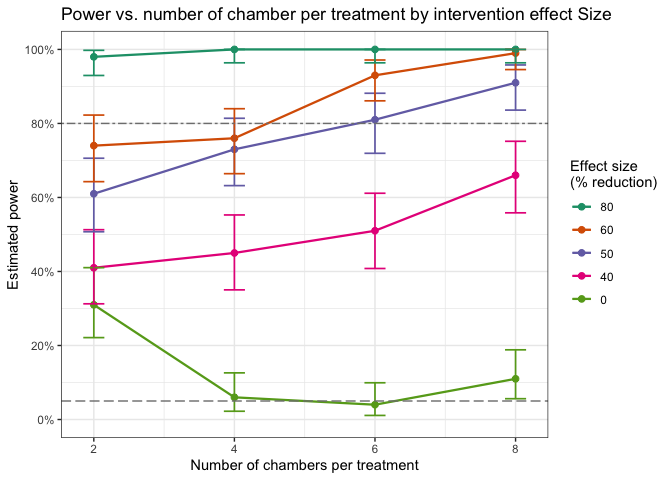
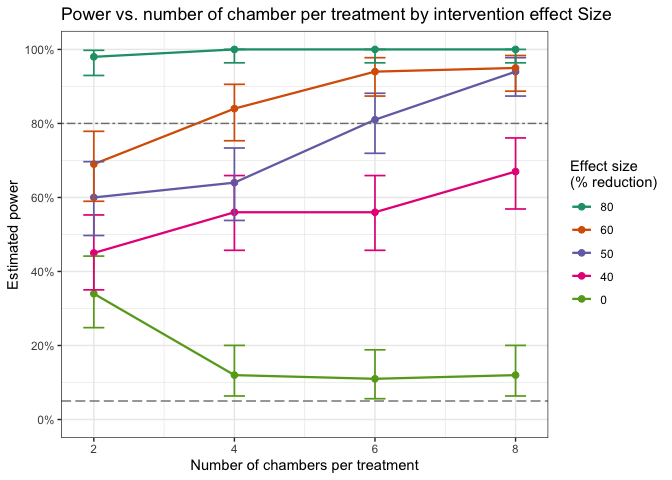
Tyring to resolve commit failures

diff --git a/README.md b/README.md
@@ -35,7 +35,7 @@ library("devtools")
 # Then, install the "powergene" package from github
 devtools::install_github("akipingu/powergene")
 
-#Finally, load the powergene package library
+#Finally, load the "powergene" package library
 library("powergene")
 ```
 
@@ -47,15 +47,15 @@ it appropriately
 citation("powergene")
 #> To cite powergene in publications use:
 #> 
-#>   Kipingu, A.M., Kiware, S.S. (2025). "powergene: A generalizable
-#>   simulation-based power analysis R package for semi-field vector
-#>   control trials ." R package available at GitHub.
-#>   <https://github.com/akipingu/powergene>.
+#>   Kipingu, A.M., Viana, M., Johnson, P.C.D., Kiware, S.S. (2025).
+#>   "powergene: A generalizable simulation-based power analysis R package
+#>   for semi-field vector control trials ." R package available at
+#>   GitHub. <https://github.com/akipingu/powergene>.
 #> 
 #> A BibTeX entry for LaTeX users is
 #> 
 #>   @Misc{,
-#>     author = {{Kipingu, A.M.} and {Kiware, S.S.}},
+#>     author = {{Kipingu, A.M.} and {Viana, M.} and {Johnson, P.C.D.} and {Kiware, S.S.}},
 #>     title = {powergene: A generalizable simulation-based power analysis R package for semi-field vector control trials
 #> },
 #>     year = {2025},
@@ -122,14 +122,14 @@ sim.mosquitoes <- sim.mosq.shortsfe.sinint(
 sim.mosquitoes <- sim.mosquitoes[, c(-4,-5,-6)]
 sim.mosquitoes
 #>   replicates intvn chamber mosquito.count.fixed mosquito.count.random
-#> 1          1     0     0-1                   36                    73
-#> 2          2     0     0-2                   47                    35
-#> 3          3     0     0-3                   52                    38
-#> 4          4     0     0-4                   48                    65
-#> 5          1     1     1-1                    9                    10
-#> 6          2     1     1-2                    6                    13
-#> 7          3     1     1-3                   16                     6
-#> 8          4     1     1-4                    8                    20
+#> 1          1     0     0-1                   51                    23
+#> 2          2     0     0-2                   44                    66
+#> 3          3     0     0-3                   53                    40
+#> 4          4     0     0-4                   54                    67
+#> 5          1     1     1-1                   13                    19
+#> 6          2     1     1-2                   11                     9
+#> 7          3     1     1-3                    9                     2
+#> 8          4     1     1-4                   13                    16
 ```
 
 3.  Plot the simulated mosquitoes. This function plots a box plot with
@@ -170,8 +170,8 @@ pvalue <- sim.pval.shortsfe.sinint(
 
 #output the p-values
 pvalue
-#>       pvalue 
-#> 5.849661e-14
+#>      pvalue 
+#> 6.00237e-07
 ```
 
 V. Since power cannot be estimated from a single simulation, there is a
@@ -245,7 +245,7 @@ for (i in seq_along(n.ch.values)) {
 round(power.df,2)
 #>   n.ch.per.trt power ci.lower ci.upper
 #> 1            2  0.96     0.90     0.99
-#> 2            4  0.99     0.95     1.00
+#> 2            4  1.00     0.96     1.00
 #> 3            6  1.00     0.96     1.00
 #> 4            8  1.00     0.96     1.00
 ```
@@ -331,27 +331,27 @@ for (i in seq_len(nrow(results))) {
 #>   |                                                                              |                                                                      |   0%  |                                                                              |=                                                                     |   1%  |                                                                              |=                                                                     |   2%  |                                                                              |==                                                                    |   3%  |                                                                              |===                                                                   |   4%  |                                                                              |====                                                                  |   5%  |                                                                              |====                                                                  |   6%  |                                                                              |=====                                                                 |   7%  |                                                                              |======                                                                |   8%  |                                                                              |======                                                                |   9%  |                                                                              |=======                                                               |  10%  |                                                                              |========                                                              |  11%  |                                                                              |========                                                              |  12%  |                                                                              |=========                                                             |  13%  |                                                                              |==========                                                            |  14%  |                                                                              |==========                                                            |  15%  |                                                                              |===========                                                           |  16%  |                                                                              |============                                                          |  17%  |                                                                              |=============                                                         |  18%  |                                                                              |=============                                                         |  19%  |                                                                              |==============                                                        |  20%  |                                                                              |===============                                                       |  21%  |                                                                              |===============                                                       |  22%  |                                                                              |================                                                      |  23%  |                                                                              |=================                                                     |  24%  |                                                                              |==================                                                    |  25%  |                                                                              |==================                                                    |  26%  |                                                                              |===================                                                   |  27%  |                                                                              |====================                                                  |  28%  |                                                                              |====================                                                  |  29%  |                                                                              |=====================                                                 |  30%  |                                                                              |======================                                                |  31%  |                                                                              |======================                                                |  32%  |                                                                              |=======================                                               |  33%  |                                                                              |========================                                              |  34%  |                                                                              |========================                                              |  35%  |                                                                              |=========================                                             |  36%  |                                                                              |==========================                                            |  37%  |                                                                              |===========================                                           |  38%  |                                                                              |===========================                                           |  39%  |                                                                              |============================                                          |  40%  |                                                                              |=============================                                         |  41%  |                                                                              |=============================                                         |  42%  |                                                                              |==============================                                        |  43%  |                                                                              |===============================                                       |  44%  |                                                                              |================================                                      |  45%  |                                                                              |================================                                      |  46%  |                                                                              |=================================                                     |  47%  |                                                                              |==================================                                    |  48%  |                                                                              |==================================                                    |  49%  |                                                                              |===================================                                   |  50%  |                                                                              |====================================                                  |  51%  |                                                                              |====================================                                  |  52%  |                                                                              |=====================================                                 |  53%  |                                                                              |======================================                                |  54%  |                                                                              |======================================                                |  55%  |                                                                              |=======================================                               |  56%  |                                                                              |========================================                              |  57%  |                                                                              |=========================================                             |  58%  |                                                                              |=========================================                             |  59%  |                                                                              |==========================================                            |  60%  |                                                                              |===========================================                           |  61%  |                                                                              |===========================================                           |  62%  |                                                                              |============================================                          |  63%  |                                                                              |=============================================                         |  64%  |                                                                              |==============================================                        |  65%  |                                                                              |==============================================                        |  66%  |                                                                              |===============================================                       |  67%  |                                                                              |================================================                      |  68%  |                                                                              |================================================                      |  69%  |                                                                              |=================================================                     |  70%  |                                                                              |==================================================                    |  71%  |                                                                              |==================================================                    |  72%  |                                                                              |===================================================                   |  73%  |                                                                              |====================================================                  |  74%  |                                                                              |====================================================                  |  75%  |                                                                              |=====================================================                 |  76%  |                                                                              |======================================================                |  77%  |                                                                              |=======================================================               |  78%  |                                                                              |=======================================================               |  79%  |                                                                              |========================================================              |  80%  |                                                                              |=========================================================             |  81%  |                                                                              |=========================================================             |  82%  |                                                                              |==========================================================            |  83%  |                                                                              |===========================================================           |  84%  |                                                                              |============================================================          |  85%  |                                                                              |============================================================          |  86%  |                                                                              |=============================================================         |  87%  |                                                                              |==============================================================        |  88%  |                                                                              |==============================================================        |  89%  |                                                                              |===============================================================       |  90%  |                                                                              |================================================================      |  91%  |                                                                              |================================================================      |  92%  |                                                                              |=================================================================     |  93%  |                                                                              |==================================================================    |  94%  |                                                                              |==================================================================    |  95%  |                                                                              |===================================================================   |  96%  |                                                                              |====================================================================  |  97%  |                                                                              |===================================================================== |  98%  |                                                                              |===================================================================== |  99%  |                                                                              |======================================================================| 100%
 # print power estimates
 results
-#>    n.ch.per.trt intvn.effect power   ci.lower   ci.upper
-#> 1             2          0.0  0.31 0.22128879 0.41031455
-#> 2             4          0.0  0.06 0.02233489 0.12602993
-#> 3             6          0.0  0.04 0.01100449 0.09925716
-#> 4             8          0.0  0.11 0.05620702 0.18830113
-#> 5             2          0.4  0.41 0.31261998 0.51285580
-#> 6             4          0.4  0.45 0.35032023 0.55271981
-#> 7             6          0.4  0.51 0.40803633 0.61135583
-#> 8             8          0.4  0.66 0.55846673 0.75177650
-#> 9             2          0.5  0.61 0.50731448 0.70598959
-#> 10            4          0.5  0.73 0.63198373 0.81393358
-#> 11            6          0.5  0.81 0.71930204 0.88155680
-#> 12            8          0.5  0.91 0.83601774 0.95801640
-#> 13            2          0.6  0.74 0.64268794 0.82260556
-#> 14            4          0.6  0.76 0.66426451 0.83977539
-#> 15            6          0.6  0.93 0.86108027 0.97139471
-#> 16            8          0.6  0.99 0.94554061 0.99974685
-#> 17            2          0.8  0.98 0.92961607 0.99756866
-#> 18            4          0.8  1.00 0.96378331 1.00000000
-#> 19            6          0.8  1.00 0.96378331 1.00000000
-#> 20            8          0.8  1.00 0.96378331 1.00000000
+#>    n.ch.per.trt intvn.effect power   ci.lower  ci.upper
+#> 1             2          0.0  0.34 0.24822350 0.4415333
+#> 2             4          0.0  0.12 0.06356890 0.2002357
+#> 3             6          0.0  0.11 0.05620702 0.1883011
+#> 4             8          0.0  0.12 0.06356890 0.2002357
+#> 5             2          0.4  0.45 0.35032023 0.5527198
+#> 6             4          0.4  0.56 0.45718750 0.6591640
+#> 7             6          0.4  0.56 0.45718750 0.6591640
+#> 8             8          0.4  0.67 0.56882725 0.7608015
+#> 9             2          0.5  0.60 0.49720915 0.6967052
+#> 10            4          0.5  0.64 0.53787811 0.7335916
+#> 11            6          0.5  0.81 0.71930204 0.8815568
+#> 12            8          0.5  0.94 0.87397007 0.9776651
+#> 13            2          0.6  0.69 0.58968545 0.7787112
+#> 14            4          0.6  0.84 0.75321240 0.9056897
+#> 15            6          0.6  0.94 0.87397007 0.9776651
+#> 16            8          0.6  0.95 0.88716509 0.9835681
+#> 17            2          0.8  0.98 0.92961607 0.9975687
+#> 18            4          0.8  1.00 0.96378331 1.0000000
+#> 19            6          0.8  1.00 0.96378331 1.0000000
+#> 20            8          0.8  1.00 0.96378331 1.0000000
 ```
 
 9.  Now plot the resulting power estimates vs. number of chambers per
